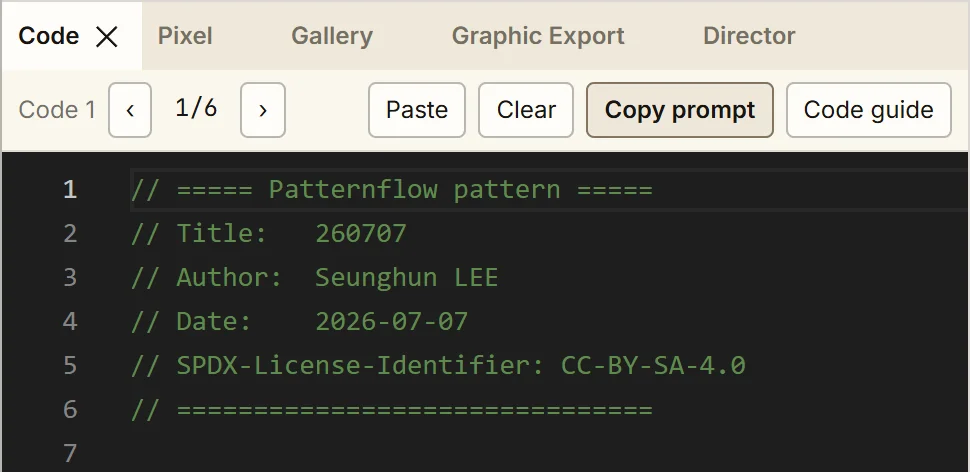
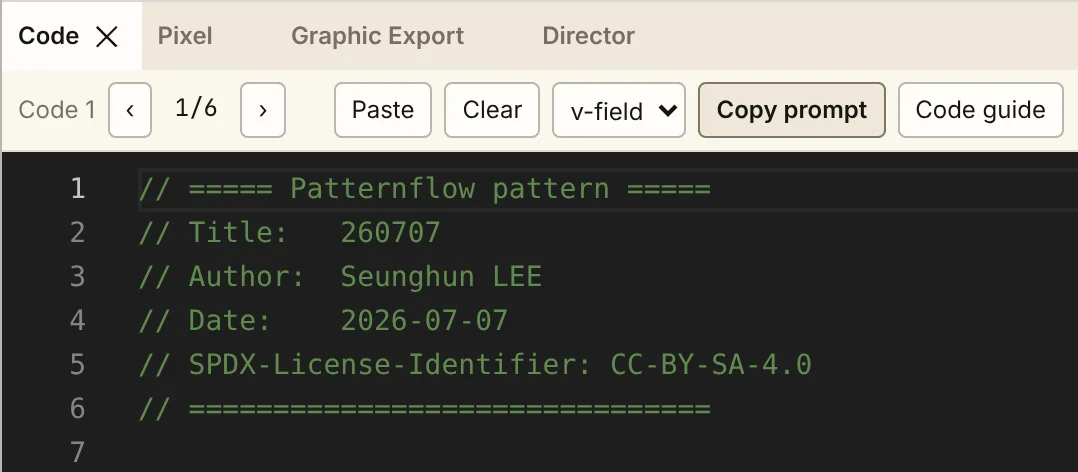
가이드의 Lab 화면에서 Gallery 를 빼고 Code 탭 사진을 다시 찍는다
색 방식 고르기와 Copy prompt 를 한 묶음으로 두어 폰에서 같이 줄바꿈한다.

Claude-Session: https://claude.ai/code/session_01958sgyYvwXm2u3Qc2X8pqL

diff --git a/web/src/components/guide/LabShots.tsx b/web/src/components/guide/LabShots.tsx
@@ -26,7 +26,6 @@ type ShotId =
   | "recent"
   | "copyPrompt"
   | "paste"
-  | "gallery"
   | "bw"
   | "ramp"
   | "rampRandom"
@@ -58,17 +57,16 @@ const GEO: Record<ShotId, Geo> = {
   bw: { src: "preview-bw.webp", w: 401, h: 206, ring: null },
   color: { src: "preview-color.webp", w: 401, h: 206, ring: null },
   convert: { src: "convert.webp", w: 456, h: 256, ring: [2.85, 63.1, 94.3, 16.41] },
-  copyPrompt: { src: "code.webp", w: 485, h: 236, ring: [59.65, 15.68, 20.89, 15.25] },
+  copyPrompt: { src: "code.webp", w: 539, h: 236, ring: [64.06, 15.68, 18.8, 15.25] },
   director: { src: "director.webp", w: 480, h: 292, ring: [25.21, 12.67, 35.35, 12.33] },
   exportGo: { src: "export.webp", w: 476, h: 176, ring: [1.05, 76.93, 97.2, 20.45] },
   exportSize: { src: "export.webp", w: 476, h: 176, ring: [1.05, 21.02, 65.76, 20.45] },
-  gallery: { src: "gallery.webp", w: 485, h: 236, ring: [62.91, 15.68, 25.4, 15.25] },
   hwLayers: { src: "hw-layers.webp", w: 456, h: 188, ring: [71.96, 60.77, 22.77, 20.21] },
   knobs: { src: "knobs.webp", w: 345, h: 186, ring: [4.06, 76.55, 93.91, 18.28] },
   layers: { src: "layers.webp", w: 423, h: 240, ring: [2.84, 0.83, 30.66, 15.0] },
   mask: { src: "layers.webp", w: 423, h: 240, ring: [3.31, 87.11, 57.06, 9.97] },
   name: { src: "name.webp", w: 400, h: 64, ring: [14.0, 6.25, 72.0, 56.25] },
-  paste: { src: "code.webp", w: 485, h: 236, ring: [37.05, 15.68, 11.87, 15.25] },
+  paste: { src: "code.webp", w: 539, h: 236, ring: [30.18, 15.68, 10.68, 15.25] },
   pasted: { src: "pasted.webp", w: 456, h: 224, ring: [2.85, 62.31, 94.3, 31.96] },
   perf: { src: "ports.webp", w: 464, h: 149, ring: [21.79, 76.96, 32.49, 21.93] },
   port: { src: "ports.webp", w: 464, h: 149, ring: [24.92, 8.72, 29.55, 21.93] },
@@ -134,15 +132,6 @@ const WORDS: Record<ShotId, Words> = {
       ko: "Code 탭의 도구 줄과 그 아래 패턴 코드. Paste 버튼이 표시돼 있다.",
     },
   },
-  gallery: {
-    title: "Generate · Key",
-    en: "Key takes your Gemini key, kept in this browser and sent only to Google. Generate asks for n variations; click a card to load one.",
-    ko: "Key에 Gemini 키를 넣어요. 이 브라우저에만 저장되고 구글로만 가요. Generate를 누르면 n개를 받고, 카드를 누르면 불러와요.",
-    alt: {
-      en: "The Gallery tab before any variations, with its Generate and Key buttons marked.",
-      ko: "아직 변형이 없는 Gallery 탭. Generate와 Key 버튼이 표시돼 있다.",
-    },
-  },
   bw: {
     title: "Preview",
     en: "A v-field on the default ramp: each pixel's value, 0 to 1, shown black to white.",
@@ -172,8 +161,8 @@ const WORDS: Record<ShotId, Words> = {
   },
   color: {
     title: "Preview",
-    en: "The same values through that ramp. Want the AI to pick colours instead? Set the Gallery's v-field to rgb before copying the prompt.",
-    ko: "같은 값이 그 램프를 거친 모습이에요. 색을 AI에게 맡기려면, 프롬프트를 복사하기 전에 Gallery의 v-field를 rgb로 바꿔요.",
+    en: "The same values through that ramp. Want the AI to pick colours instead? Set v-field beside Copy prompt to rgb before copying.",
+    ko: "같은 값이 그 램프를 거친 모습이에요. 색을 AI에게 맡기려면, 복사하기 전에 Copy prompt 옆의 v-field를 rgb로 바꿔요.",
     alt: {
       en: "The preview through that ramp: the same rings in purple and blue, with dark bands between them.",
       ko: "그 램프를 거친 미리보기. 같은 동심원이 보라와 파랑으로 보이고, 그 사이는 어두운 띠다.",
@@ -328,7 +317,7 @@ const WORDS: Record<ShotId, Words> = {
 /** Which screens each step of the chapter shows (copy/lab.ts steps with extra: "labShots"). */
 const STEPS: Record<number, ShotId[]> = {
   1: ["name", "saved", "recent"],
-  2: ["copyPrompt", "paste", "gallery"],
+  2: ["copyPrompt", "paste"],
   3: ["bw", "ramp", "rampRandom", "color"],
   4: ["knobs", "push"],
   5: ["convert"],

diff --git a/web/src/app/pattern-lab/panels/CodePanel.tsx b/web/src/app/pattern-lab/panels/CodePanel.tsx
@@ -141,26 +141,28 @@ export default function CodePanel() {
         >
           {cleared ? "Cleared ✓" : "Clear"}
         </button>
-        <select
-          value={gen.colorMode}
-          aria-label="Color mode"
-          title="What Copy prompt asks for. v-field: the AI writes a 0..1 value field and the layer's Color Ramp does the coloring. rgb: the AI colors pixels itself."
-          onChange={(event) => setGen({ colorMode: event.target.value as ColorMode })}
-        >
-          {COLOR_MODES.map((option) => (
-            <option key={option} value={option}>
-              {option === "vfield" ? "v-field" : "rgb"}
-            </option>
-          ))}
-        </select>
-        <button
-          type="button"
-          className={local.promptButton}
-          onClick={copyVariantPrompt}
-          title="Copy the AI variation prompt for this layer (ChatGPT / Claude / Gemini)"
-        >
-          {promptCopy === "copied" ? "Copied" : promptCopy === "failed" ? "Copy failed" : "Copy prompt"}
-        </button>
+        <span className={local.promptGroup}>
+          <select
+            value={gen.colorMode}
+            aria-label="Color mode"
+            title="What Copy prompt asks for. v-field: the AI writes a 0..1 value field and the layer's Color Ramp does the coloring. rgb: the AI colors pixels itself."
+            onChange={(event) => setGen({ colorMode: event.target.value as ColorMode })}
+          >
+            {COLOR_MODES.map((option) => (
+              <option key={option} value={option}>
+                {option === "vfield" ? "v-field" : "rgb"}
+              </option>
+            ))}
+          </select>
+          <button
+            type="button"
+            className={local.promptButton}
+            onClick={copyVariantPrompt}
+            title="Copy the AI variation prompt for this layer (ChatGPT / Claude / Gemini)"
+          >
+            {promptCopy === "copied" ? "Copied" : promptCopy === "failed" ? "Copy failed" : "Copy prompt"}
+          </button>
+        </span>
         <button type="button" onClick={() => setGuideOpen(true)}>
           Code guide
         </button>

diff --git a/web/src/app/pattern-lab/panels/CodePanel.test.tsx b/web/src/app/pattern-lab/panels/CodePanel.test.tsx
@@ -75,3 +75,26 @@ describe("CodePanel copy prompt", () => {
     }
   });
 });
+
+// The colour mode used to be picked in the Gallery tab, which went on
+// 23 October 2026. It sits beside Copy prompt now, and the prompt follows it.
+describe("CodePanel colour mode", () => {
+  it("copies a v-field prompt until rgb is picked, then an rgb one", async () => {
+    const writeText = vi.fn<(text: string) => Promise<void>>(() => Promise.resolve());
+    setClipboard({ writeText });
+    render(<CodePanel />);
+
+    const mode = screen.getByRole("combobox", { name: "Color mode" }) as HTMLSelectElement;
+    expect(mode.value).toBe("vfield");
+    fireEvent.click(screen.getByText("Copy prompt"));
+    await act(async () => {});
+    expect(writeText.mock.calls[0][0]).toContain("display.setValue(x, y, v)");
+
+    fireEvent.change(mode, { target: { value: "rgb" } });
+    expect(useLabStore.getState().gen).toEqual({ colorMode: "rgb" });
+    fireEvent.click(screen.getByText("Copied"));
+    await act(async () => {});
+    expect(writeText.mock.calls[1][0]).toContain("display.setPixel(x, y, r, g, b)");
+    expect(writeText.mock.calls[1][0]).not.toContain("Do NOT call display.setPixel");
+  });
+});

diff --git a/web/src/app/pattern-lab/panels/CodePanel.module.css b/web/src/app/pattern-lab/panels/CodePanel.module.css
@@ -19,3 +19,11 @@ button.promptButton {
   background: #eee7d8;
   font-weight: 600;
 }
+
+/* The colour mode is what the copied prompt asks for, so on a narrow bar the
+   two wrap to the next row together. */
+.promptGroup {
+  display: inline-flex;
+  align-items: center;
+  gap: 6px;
+}
